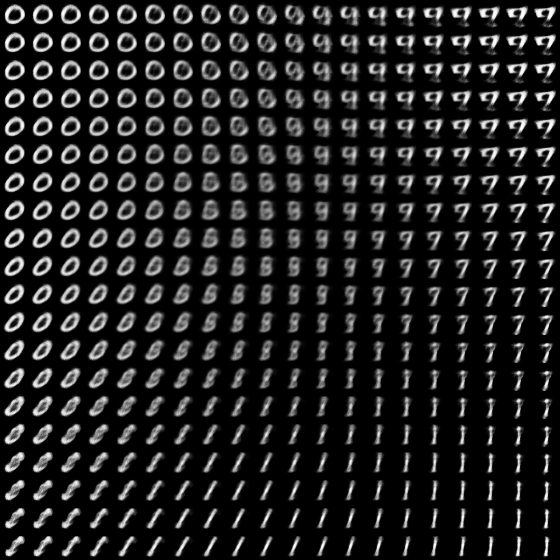
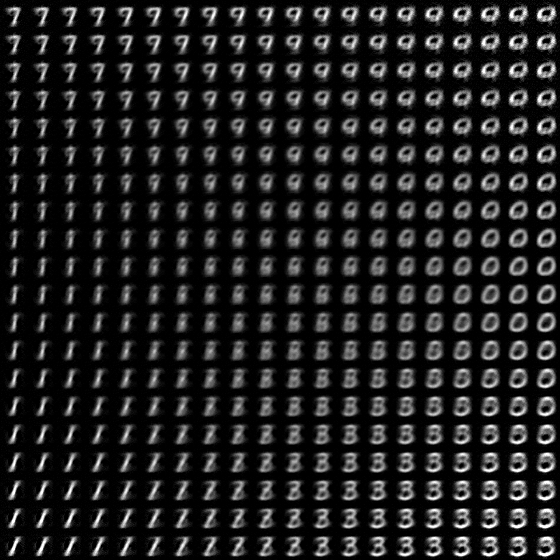
Finish MP3

diff --git a/mp3/models/variational_autoencoder.py b/mp3/models/variational_autoencoder.py
@@ -10,6 +10,7 @@ from tensorflow.contrib import layers
 class VariationalAutoencoder(object):
     """Varational Autoencoder.
     """
+
     def __init__(self, ndims=784, nlatent=2):
         """Initializes a VAE
 
@@ -53,7 +54,8 @@ class VariationalAutoencoder(object):
             z (tf.Tensor): Random z sampled of dimension (None, 2)
         """
 
-        z = None
+        z = tf.add(tf.multiply(tf.sqrt(tf.exp(z_log_var)), tf.random_normal(tf.shape(z_log_var), 0, 1)),
+                   z_mean)
         return z
 
     def _encoder(self, x):
@@ -76,9 +78,27 @@ class VariationalAutoencoder(object):
             z_log_var(tf.Tensor): The latent log variance, tensor of dimension
                 (None, 2).
         """
+        hidden_1_layer = {'weights': tf.Variable(tf.random_normal([784, 100], stddev=0.01)),
+                          'biases': tf.Variable(tf.random_normal([100]))}
 
-        z_mean = None
-        z_log_var = None
+        hidden_2_layer = {'weights': tf.Variable(tf.random_normal([100, 50], stddev=0.01)),
+                          'biases': tf.Variable(tf.random_normal([50]))}
+
+        mean = {'weights': tf.Variable(tf.random_normal([50, 2], stddev=0.01)),
+                'biases': tf.Variable(tf.zeros([2]))}
+
+        log = {'weights': tf.Variable(tf.random_normal([50, 2], stddev=0.01)),
+               'biases': tf.Variable(tf.zeros([2]))}
+
+        layer_1 = tf.nn.softplus(tf.add(tf.matmul(x, hidden_1_layer['weights'],),
+                                        hidden_1_layer['biases']))
+        layer_2 = tf.nn.softplus(tf.add(tf.matmul(layer_1,  hidden_2_layer['weights']),
+                                        hidden_2_layer['biases']))
+
+        z_mean = tf.add(tf.matmul(layer_2, mean['weights']), mean['biases'])
+        z_log_var = tf.add(
+            tf.matmul(layer_2, log['weights']), log['biases']) + 1e-7
+
         return z_mean, z_log_var
 
     def _decoder(self, z):
@@ -93,7 +113,20 @@ class VariationalAutoencoder(object):
         Returns:
             f(tf.Tensor): Predicted score, tensor of dimension (None, 784).
         """
-        f = None
+        hidden_1_layer = {'weights': tf.Variable(tf.random_normal([2, 50], stddev=0.1)),
+                          'biases': tf.Variable(tf.zeros([50]))}
+
+        hidden_2_layer = {'weights': tf.Variable(tf.random_normal([50, 100], stddev=0.1)),
+                          'biases': tf.Variable(tf.zeros([100]))}
+
+        out = {'weights': tf.Variable(tf.random_normal([100, self._ndims], stddev=0.1)),
+               'biases': tf.Variable(tf.zeros([self._ndims]))}
+
+        layer_1 = tf.nn.softplus(tf.add(tf.matmul(z, hidden_1_layer['weights']),
+                                        hidden_1_layer['biases']))
+        layer_2 = tf.nn.softplus(tf.add(tf.matmul(layer_1,  hidden_2_layer['weights']),
+                                        hidden_2_layer['biases']))
+        f = tf.add(tf.matmul(layer_2,  out['weights']), out['biases'])
         return f
 
     def _latent_loss(self, z_mean, z_log_var):
@@ -107,7 +140,9 @@ class VariationalAutoencoder(object):
             latent_loss: Tensor of dimension (None,). Sum the loss over
             dimension 1.
         """
-        latent_loss = None
+        latent_loss = -0.5 * tf.reduce_sum(1 + z_log_var
+                                           - tf.square(z_mean)
+                                           - tf.exp(z_log_var), 1)
         return latent_loss
 
     def _reconstruction_loss(self, f, y):
@@ -119,7 +154,7 @@ class VariationalAutoencoder(object):
         Returns:
             Tensor for dimension (None,). Sum the loss over dimension 1.
         """
-        return None
+        return tf.nn.l2_loss(tf.subtract(y, f))
 
     def loss(self, f, y, z_mean, z_var):
         """Computes the total loss.
@@ -131,7 +166,7 @@ class VariationalAutoencoder(object):
             (1) averged loss of latent_loss and reconstruction loss over
                 dimension 0.
         """
-        return None
+        return tf.reduce_mean(self._reconstruction_loss(f, y) + self._latent_loss(z_mean, z_var),0)
 
     def update_op(self, loss, learning_rate):
         """Creates the update optimizer.
@@ -144,7 +179,7 @@ class VariationalAutoencoder(object):
         Returns:
             (1) Update opt tensorflow operation.
         """
-        return None
+        return tf.train.AdamOptimizer(learning_rate=learning_rate).minimize(loss)
 
     def generate_samples(self, z_np):
         """Generates a random sample from the provided z_np.
@@ -156,4 +191,6 @@ class VariationalAutoencoder(object):
             (1) The sampled images (numpy.ndarray) of dimension (batch_size,
                 748).
         """
-        return None
+        image = self.session.run([self.outputs_tensor],
+                                 feed_dict={self.z: z_np})
+        return np.clip(image, 0, 1)

diff --git a/mp3/models/kmeans.py b/mp3/models/kmeans.py
@@ -7,6 +7,7 @@ from scipy import stats
 
 
 class KMeans(object):
+
     def __init__(self, n_dims, n_components=10, max_iter=100):
         """Initialize a KMeans GMM model
         Args:
@@ -22,7 +23,9 @@ class KMeans(object):
         # mean and unit variance.
         mean = 0.
         var = 1.
-        self._mu = np.random.normal(mean,var,(self._n_components,self._n_dims))  # np.array of size (n_components, n_dims)
+        # np.array of size (n_components, n_dims)
+        self._mu = np.random.normal(
+            mean, var, (self._n_components, self._n_dims))
 
     def fit(self, x):
         """Runs EM step for max_iter number of times.
@@ -33,7 +36,7 @@ class KMeans(object):
         """
         for i in range(self._max_iter):
             r_ik = self._e_step(x)
-            self._m_step(x,r_ik)
+            self._m_step(x, r_ik)
 
     def _e_step(self, x):
         """Update cluster assignment.
@@ -48,8 +51,7 @@ class KMeans(object):
             r_ik(numpy.ndarray): Array containing the cluster assignment of
                 each example, dimension (N,).
         """
-        r_ik = self.get_posterior(x)
-        return r_ik
+        return self.get_posterior(x)
 
     def _m_step(self, x, r_ik):
         """Update cluster mean.
@@ -62,16 +64,14 @@ class KMeans(object):
             r_ik(numpy.ndarray): Array containing the cluster assignment of
                 each example, dimension (N,).
         """
-        np.seterr(divide='ignore', invalid='ignore')
-        N, = r_ik.shape
+        N, = r_ik.shape  # N = 7000
+        count = np.zeros((self._n_components,))
+        accumlator = np.zeros((self._n_components, self._n_dims))
+        for i in range(N):
+            count[r_ik[i]] += 1
+            accumlator[r_ik[i]] += x[i]
         for k in range(self._n_components):
-            count = 0
-            accumlator = np.zeros((self._n_dims,))
-            for i in range(N):
-                if r_ik[k] == k:
-                    count += 1
-                    accumlator += x[i]
-            self._mu[k] = np.divide(accumlator,float(count))
+            self._mu[k] = (accumlator[k] + 1e-4) / (count[k] + 1e-4)
 
     def get_posterior(self, x):
         """Computes cluster assignment.
@@ -86,13 +86,17 @@ class KMeans(object):
             r_ik(numpy.ndarray): Array containing the cluster assignment of
             each example, dimension (N,).
         """
-        N,ndims = x.shape
-        r_ik = np.zeros((N,))
-        for i in range(N):
-            J = np.zeros((self._n_components,))
-            for k in range(self._n_components):
-                J[k] = (np.linalg.norm(x[i]-self._mu[k]))**2
-            r_ik[i] = np.argmin(J)
+        N, ndims = x.shape  # N=7000
+        r_value = np.empty((N,))
+        r_value[:] = np.inf
+        r_ik = np.empty((N,), dtype=int)
+        for k in range(self._n_components):
+            mu = self._mu[k]
+            for i in range(N):  # go over every example
+                d = np.linalg.norm(x[i] - mu)
+                if d < r_value[i]:
+                    r_value[i] = d
+                    r_ik[i] = k
         return r_ik
 
     def supervised_fit(self, x, y):
@@ -111,16 +115,16 @@ class KMeans(object):
                 ndims).
             y(numpy.ndarray): Array containing the label of dimension (N,)
         """
-
         self.cluster_label_map = []
         r_ik = self.get_posterior(x)
         N, = r_ik.shape
         for k in range(self._n_components):
-            counter = np.zeros(10)
+            counter = np.zeros(10, dtype=int)
             for i in range(N):
                 if r_ik[i] == k:
                     counter[int(y[i])] += 1
-            self.cluster_label_map.append(np.amax(counter)) 
+            self.cluster_label_map.append(np.argmax(counter))
+        print(self.cluster_label_map)
 
     def supervised_predict(self, x):
         """Predict a label for each example in x.
@@ -133,7 +137,9 @@ class KMeans(object):
             y_hat(numpy.ndarray): Array containing the predicted label for each
                 x, dimension (N,)
         """
-
         r_ik = self.get_posterior(x)
         y_hat = []
+        N, = r_ik.shape
+        for i in range(N):
+            y_hat.append(self.cluster_label_map[int(r_ik[i])])
         return np.array(y_hat)

diff --git a/mp3/main_tf.py b/mp3/main_tf.py
@@ -25,10 +25,10 @@ def train(model, mnist_dataset, learning_rate=0.0005, batch_size=16,
     for step in range(0, num_steps):
         batch_x, _ = mnist_dataset.train.next_batch(batch_size)
         model.session.run(
-                model.update_op_tensor,
-                feed_dict={model.x_placeholder: batch_x,
-                           model.learning_rate_placeholder: learning_rate}
-                )
+            model.update_op_tensor,
+            feed_dict={model.x_placeholder: batch_x,
+                       model.learning_rate_placeholder: learning_rate}
+        )
 
 
 def main(_):
@@ -47,16 +47,16 @@ def main(_):
 
     # Plot out latent space, for +/- 3 std.
     std = 1
-    x_z = np.linspace(-3*std, 3*std, 20)
-    y_z = np.linspace(-3*std, 3*std, 20)
+    x_z = np.linspace(-3 * std, 3 * std, 20)
+    y_z = np.linspace(-3 * std, 3 * std, 20)
 
-    out = np.empty((28*20, 28*20))
+    out = np.empty((28 * 20, 28 * 20))
     for x_idx, x in enumerate(x_z):
         for y_idx, y in enumerate(y_z):
             z_mu = np.array([[y, x]])
             img = model.generate_samples(z_mu)
-            out[x_idx*28:(x_idx+1)*28,
-                y_idx*28:(y_idx+1)*28] = img[0].reshape(28, 28)
+            out[x_idx * 28:(x_idx + 1) * 28,
+                y_idx * 28:(y_idx + 1) * 28] = img[0].reshape(28, 28)
     plt.imsave('latent_space.png', out, cmap="gray")
 
 if __name__ == "__main__":

diff --git a/mp3/utils/io_tools.py b/mp3/utils/io_tools.py
@@ -18,12 +18,11 @@ def read_dataset(input_file_path):
         images scaled to the range of [0,1].
         (2) label (np.ndarray): Array of dimension (N,) containing the label.
     """
-    convertfunc = lambda x: float(x)/256.
-    cols = ()
-    con = {}
-    for i in range(1,785):
-        cols = cols + (i,)
-        con[i] = convertfunc
-    label = genfromtxt(input_file_path,delimiter=",",usecols=(0,))
-    feature = genfromtxt(input_file_path,delimiter=",",converters=con,usecols=cols)
+    data = genfromtxt(input_file_path, delimiter=",")
+    feature = data[:, 1:]
+    minimal = np.min(data[:, 1:], 1)
+    maximal = np.max(data[:, 1:], 1)
+    for i in range(feature.shape[0]):
+        feature[i] = (feature[i] - minimal[i]) / (maximal[i] - minimal[i])
+    label = genfromtxt(input_file_path, delimiter=",", usecols=(0,))
     return feature, label

diff --git a/mp3/main.py b/mp3/main.py
@@ -27,7 +27,6 @@ def main(_):
     # Load dataset.
     unlabeled_data, _ = io_tools.read_dataset('data/train_no_label.csv')
     n_dims = unlabeled_data.shape[1]
-
     # Initialize model.
     if FLAGS.model_type == 'kmeans':
         model = KMeans(n_dims, n_components=FLAGS.n_components,
@@ -38,7 +37,6 @@ def main(_):
 
     # Unsupervised training.
     model.fit(unlabeled_data)
-
     # Supervised training.
     train_data, train_label = io_tools.read_dataset(('data/'
                                                      'train_with_label.csv'))
